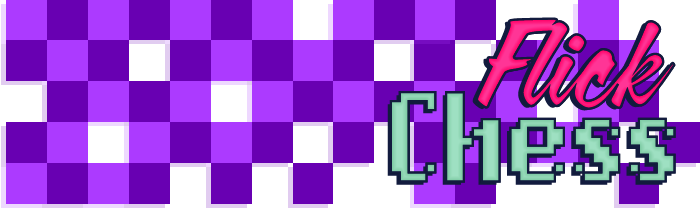
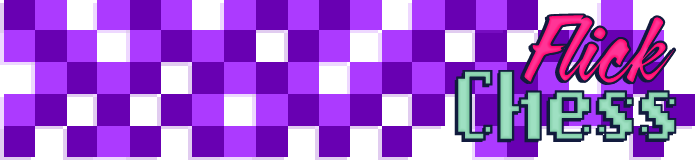
update mail
smaller header

diff --git a/emails/email_confirmation_request.html b/emails/email_confirmation_request.html
@@ -1,25 +1,26 @@
 <html>
 <head><title>Welcome to Flick Chess Alpha Testing</title></head>
 <body>
-<div style="width: 700px; margin: 0; padding: 30px 0;">
-	<table width="80%" border="0" cellpadding="0" cellspacing="0">
+<div style="width: 695px; margin: 0; padding: 30px 0;">
+	<table width="100%" border="0" cellpadding="0" cellspacing="0">
 		<tr>
 			<td align="left" width="100%" ><img src="http://www.flickchess.com/images/email_header.png"/>
 			</td>
 		</tr>
 		<tr>
 			<td width="100%" style="font: 13px/18px Arial, Helvetica, sans-serif; padding-top:20px;">
+                <br />
 				<p style="font:14px Arial, Helvetica, sans-serif; font-weight: bold; margin:0 0 20px 0; padding: 0; color:#121B3E; text-align: center;">Thanks for subscribing to <a href="http://www.flickchess.com/" target="_blank" style="color:#AC3AFF;text-decoration:none;">Flick Chess</a> alpha release!</p>
-				
+				<br />
 				<div style="font: 16px/18px Arial, Helvetica, sans-serif; margin: 0 auto; width: 225px;">
 					<a href="CONFIRMATION_LINK" style=" background-color: #121B3E; color: #FF3394; font-size: 16px; font-weight: 700; border-radius: 5px; cursor: pointer; text-decoration: none; padding: 8px 12px; display: inline-block;">Please Confirm your email</a>
 				</div>
-				
+				<br />
 				<p style="font:14px Arial, Helvetica, sans-serif; font-weight: bold; margin:20px 0 7px 0; padding: 0; color:#121B3E; text-align: center;">Feel free to follow us on <a href="https://www.facebook.com/flickchess" target="_blank" style="color:#AC3AFF;text-decoration:none;">Facebook</a> &amp; <a href="https://twitter.com/flickchess" target="_blank" style="color:#AC3AFF;text-decoration:none;">Twitter</a>&nbsp;for more news.</p>				
 				<br />
-				<br />				
+				<br />	
+                <br />
 				<p style="font:14px Arial, Helvetica, sans-serif; font-weight: bold; margin: 0; padding: 0; color:#121B3E; text-align: center;">A warm welcome to <a href="http://www.samasama-studios.com/" target="_blank" style="color:#AC3AFF;text-decoration:none;">Sama Sama Studios</a> :)</p>
-				<br />
 				<br />
 			</td>
 		</tr>
